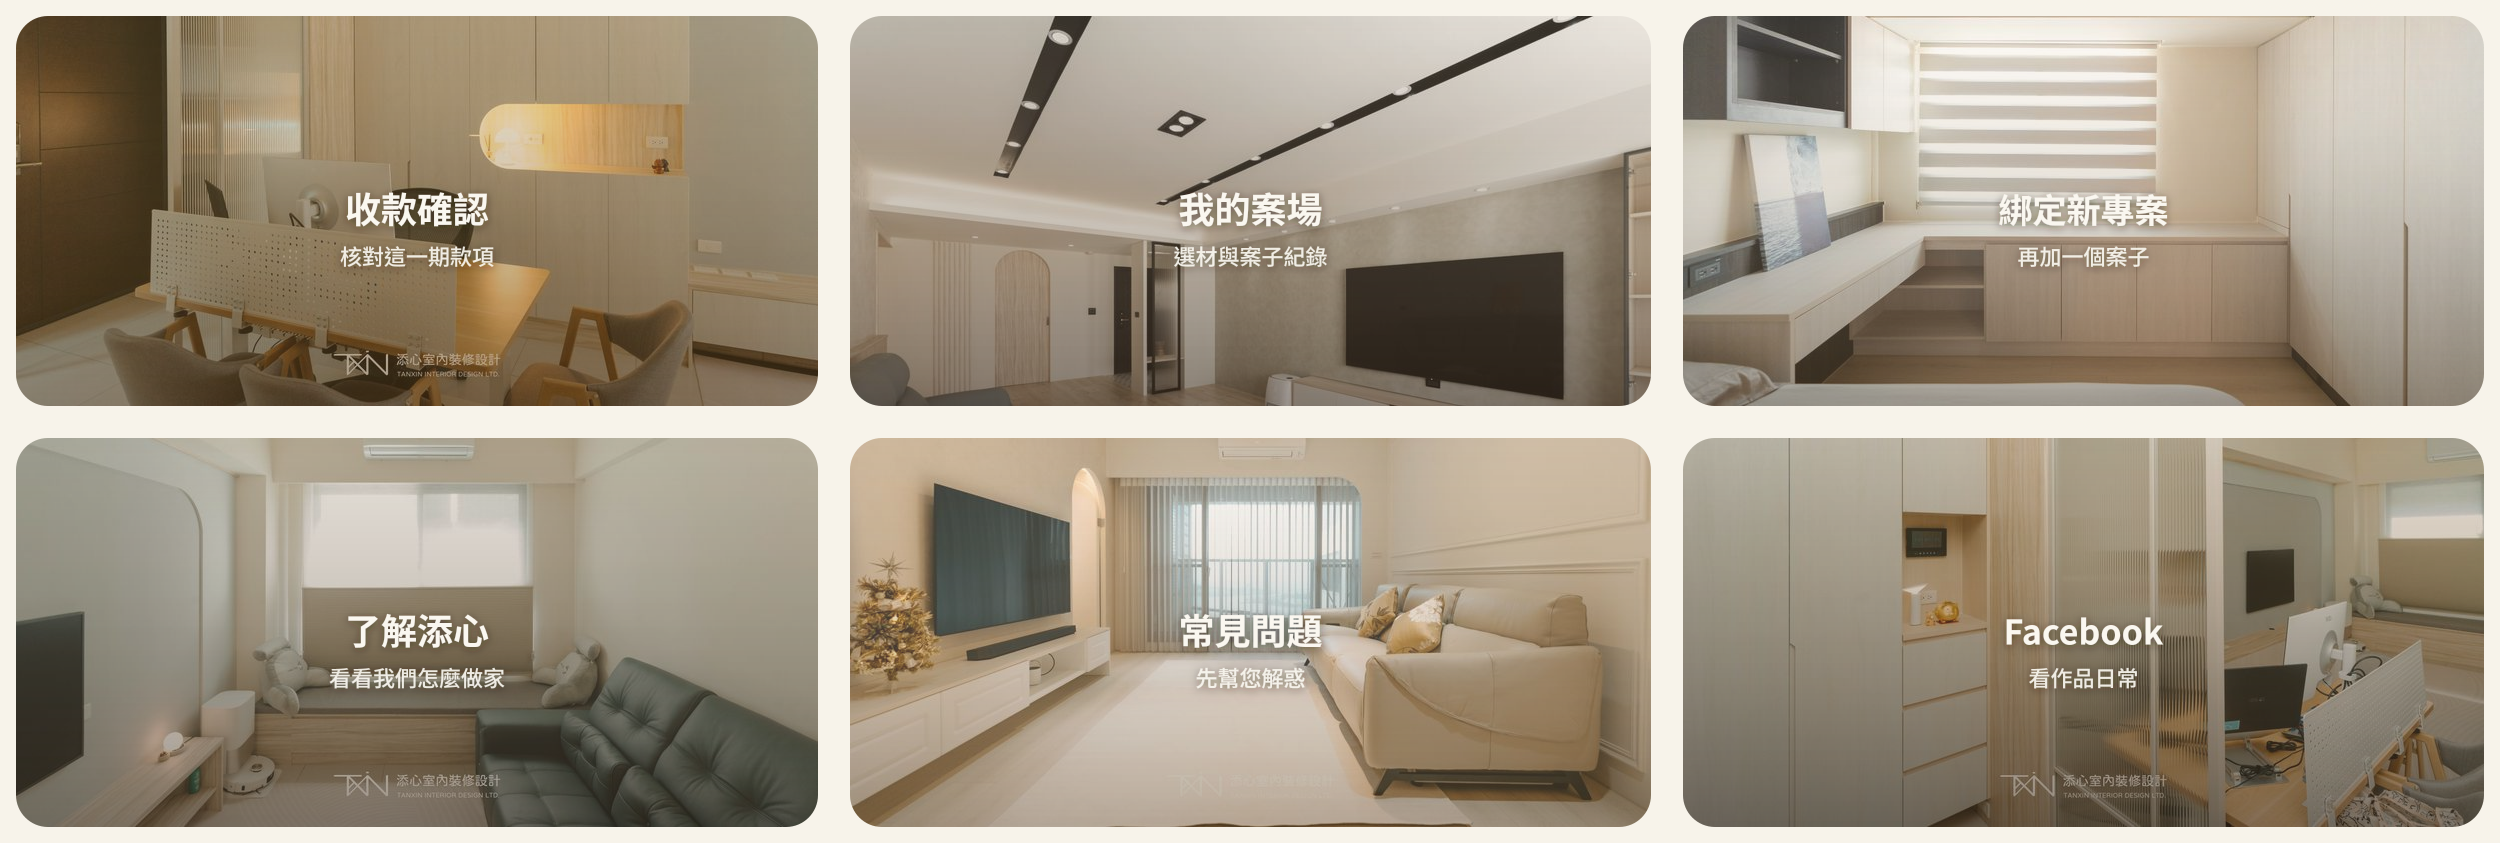
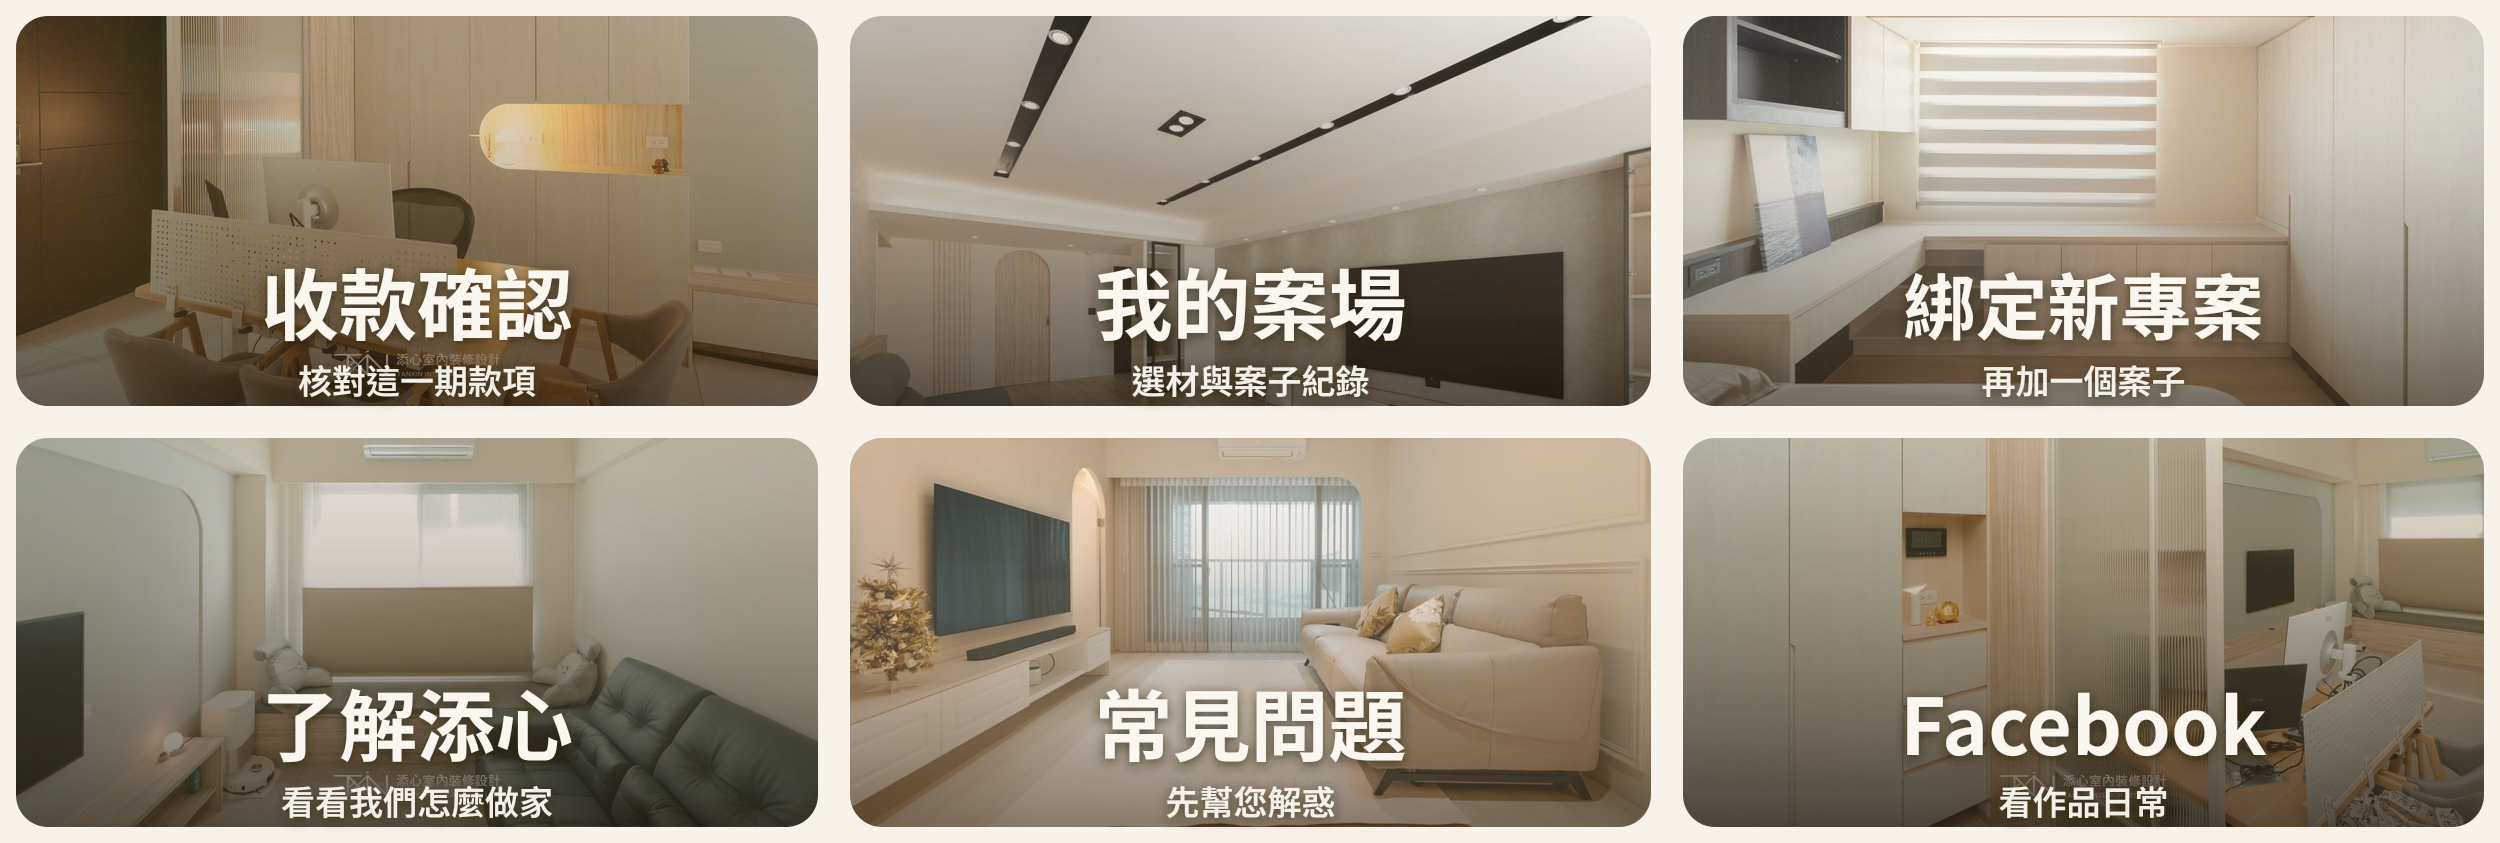
feat(deploy): 客戶選單標題加大

diff --git a/modules/info/customer-richmenu-preview.html b/modules/info/customer-richmenu-preview.html
@@ -133,12 +133,12 @@
     .cell .icon svg { width: 100%; height: 100%; display: block; }
     .cell .title {
       font-weight: 700;
-      font-size: clamp(12px, 2.9vw, 16px);
+      font-size: clamp(17px, 4.4vw, 22px);
       letter-spacing: 0.02em;
       text-shadow: 0 1px 8px rgba(42, 32, 24, 0.55);
     }
     .cell .sub {
-      font-size: clamp(9px, 2vw, 12px);
+      font-size: clamp(12px, 2.8vw, 15px);
       color: rgba(250, 247, 240, 0.92);
       margin-top: 3px;
       font-weight: 500;

diff --git a/LOG/2026-08-13_LOG_客戶RichMenu第1波.md b/LOG/2026-08-13_LOG_客戶RichMenu第1波.md
@@ -27,4 +27,7 @@
 
 ## 部署
 
-- CODING：`git push origin main`（只加本波檔案，未跑 `upload.bat` 的 `git add .`，以免送出完工原圖）
+- CODING：`3ec3107` push `origin main`（只加本波檔案，未跑 `upload.bat` 的 `git add .`，以免送出完工原圖）
+- 圖稿已可開：https://info.tanxin.space/modules/info/asset/richmenu/customer_guest_richmenu_v1.jpg
+- 黃俊豪 LINE 已掛未綁四格（2026-08-13 16:37）
+- 同日稍後：標題加大後換圖（仍同一套選單，不重建）
